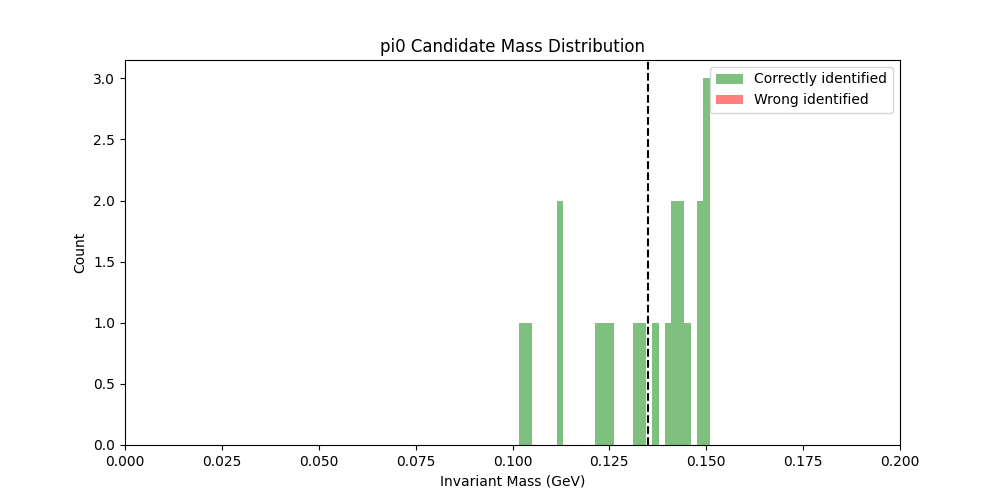
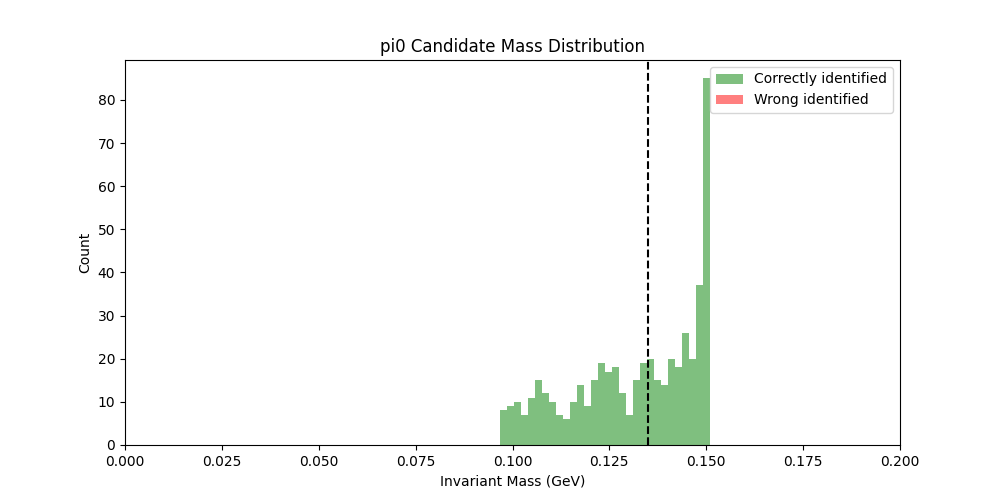
all changes

diff --git a/main.py b/main.py
@@ -77,15 +77,22 @@ if __name__ == "__main__":
 
     #print(f"    {len(pair_df)} pairs created")
     #print(f"    {pair_df.is_pi0.sum()} true pi0 pairs")
-    print(f"    Cloumns: {columns_pair_df}")
+    #print(f"    Cloumns: {columns_pair_df}")
+    print(f"    {pair_df.head(6)}")
     
     ## Check signal pi0 mass
     signal_pi0_mass = pair_df[(pair_df['is_pi0'] == 1) & (pair_df['m_gg'] > 0.1)]['m_gg'].tolist()
     #print(signal_pi0_mass)
-    plt.hist(signal_pi0_mass, color='Black', bins=100, density=False, edgecolor='black', alpha=0.7)
+    plt.hist(signal_pi0_mass, color='Black', bins=100, density=False, edgecolor='black', alpha=0.7, label=r'Reconstructed $\pi^{0}$')
     plt.xlabel(r'$m_{\gamma\gamma}$ (GeV)')
     plt.ylabel('Events')
-    plt.title(f'π⁰ Mass Distribution (n={len(signal_pi0_mass)})')
+    plt.title(rf'Mass Distribution of true $\pi^{0}$ (n={len(signal_pi0_mass)})')
+    # combine into one legend
+    #plt.legend(loc='best', fontsize=8, frameon=True, fancybox=True, shadow=True,
+    #           title=f'π⁰ Mass Distribution (n={len(signal_pi0_mass)})\nTrue π⁰ events'
+    #)
+    #plt.legend(loc='best', fontsize=8, title=f'π⁰ Mass Distribution (n={len(signal_pi0_mass)})') 
+    plt.legend(loc='best', fontsize=12, frameon=True, fancybox=True, shadow=True)
     plt.grid(True, alpha=0.3)
     plt.savefig('./plots/signal_pi0.png')
     plt.show(block=False)
@@ -93,7 +100,7 @@ if __name__ == "__main__":
 
     ## Inspect featrues
     print("\n1. Inspect features ...")
-    print(f"# columns ({len(pair_df.columns[:])}); Column name:    {pair_df.columns[:]}")
+    #print(f"# columns ({len(pair_df.columns[:])}); Column name:    {pair_df.columns[:]}")
     #print(pair_df.head(5))
     #print(f"Statistics:\n{pair_df.describe()}")
     #print(df.head(10))
@@ -105,7 +112,7 @@ if __name__ == "__main__":
     ## Pair plot (Scatter Matrix) correlations
     sample_size = min (1000, len(pair_df))
     sample_df = pair_df.sample(sample_size)
-    print(sample_df.head(5))
+    #print(sample_df.head(5))
 
     #('m_gg', 'opening_angle'),      # Should be correlated (higher mass = larger opening angle)
     #('m_gg', 'pt_asym'),             # Check if mass correlates with asymmetry
@@ -139,7 +146,7 @@ if __name__ == "__main__":
             if abs(corr) > 0.7:
                 high_corr.append((feature_columns[i], feature_columns[j], corr))
     
-    print(type(high_corr[0]), type(high_corr))
+    #print(type(high_corr[0]), type(high_corr))
 
     if high_corr:
         print("    Highly correlated pairs (>0.7):")
@@ -169,7 +176,7 @@ if __name__ == "__main__":
     # .drop(target): remove self-correlation
     # .sort_values(ascending=False): sort by strength; False: highest to lowest correlation
 
-    print(f"target_corr type: {type(target_corr), {target_corr.shape}}")
+    #print(f"target_corr type: {type(target_corr), {target_corr.shape}}")
     #print(target_corr)
 
    
@@ -204,8 +211,8 @@ if __name__ == "__main__":
 
     # Accuracy metrics
     print("\n3. Evaluating performance of events:")
-    result_events = df.sample(50) # test on a few events
-    #result_events = df
+    #result_events = df.sample(50) # test on a few events
+    result_events = df
 
     correct_predictions = 0
     total_signal_events = 0
@@ -234,11 +241,11 @@ if __name__ == "__main__":
             status = "BG"
 
         #truth = f"True pi0: {evt.true_pi0_pair}" if evt.is_signal else "Background event"
-        print(f"   Event {evt.event}: Best pair {best_pair}, score={score:.3f}, m={mass:.3f} | {status}")
+        #print(f"   Event {evt.event}: Best pair {best_pair}, score={score:.3f}, m={mass:.3f} | {status}")
 
         if total_signal_events > 0:
             accuracy = correct_predictions / total_signal_events * 100 
-            print(f"\nAccuracy on signal events: {accuracy:.1f}% ({correct_predictions}/{total_signal_events})")
+            #print(f"\nAccuracy on signal events: {accuracy:.1f}% ({correct_predictions}/{total_signal_events})")
 
         # collecting mass
         if evt.is_signal and best_pair == evt.true_pi0_pair:
